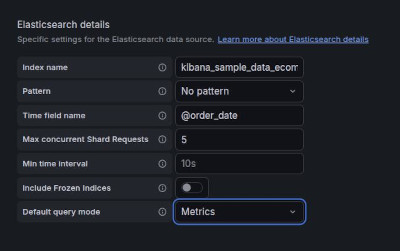
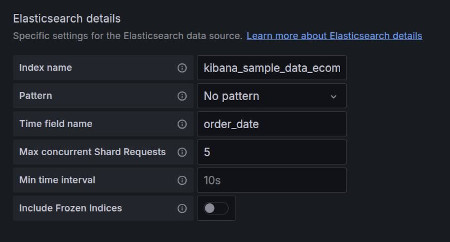
Canvis en Grafana

diff --git a/docs/u08/Grafana.md b/docs/u08/Grafana.md
@@ -502,7 +502,7 @@ networks:
 
 4. En **Elasticsearch Details**:
    - **Index name**: `kibana_sample_data_ecommerce` (o el teu índex)
-   - **Time field**: `@timestamp`
+   - **Time field**: `order_date`
 
 5. Clica **Save & Test**
 
